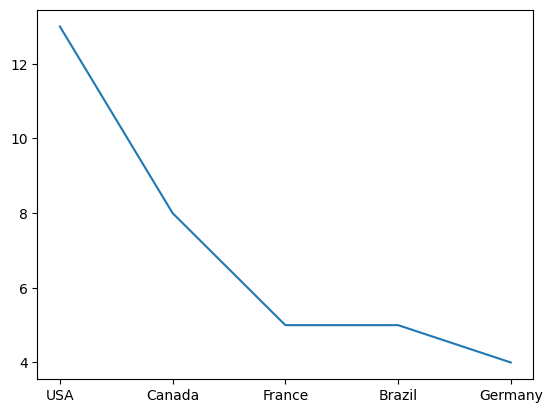
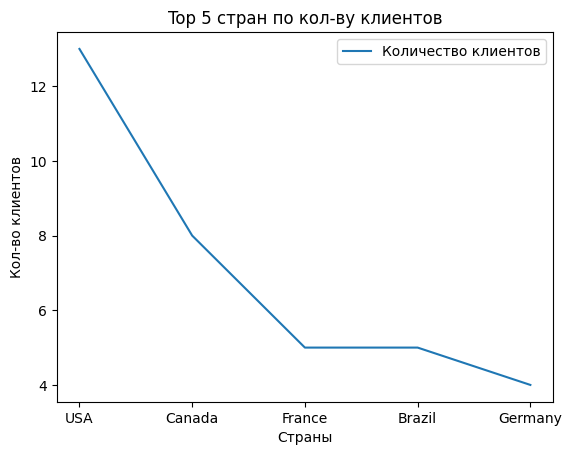
refactoring

diff --git a/README.md b/README.md
@@ -532,7 +532,11 @@ data
 
 ```python
 fig = plt.figure()
-plt.plot(data["Country"], data["customer_count"])
+plt.plot(data["Country"], data["customer_count"], label="Количество клиентов")
+plt.ylabel("Кол-во клиентов")
+plt.xlabel("Страны")
+plt.title("Top 5 стран по кол-ву клиентов")
+plt.legend()
 plt.show()
 ```
 
